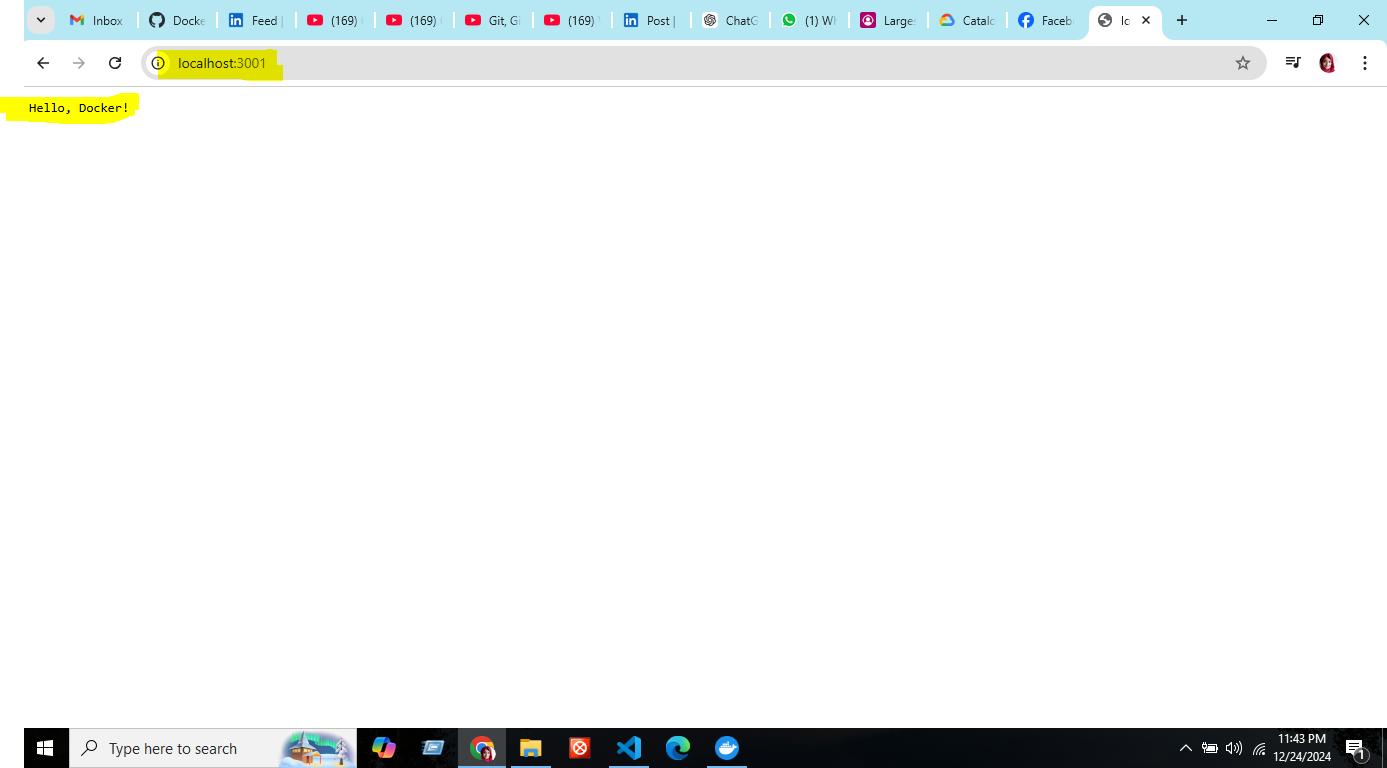
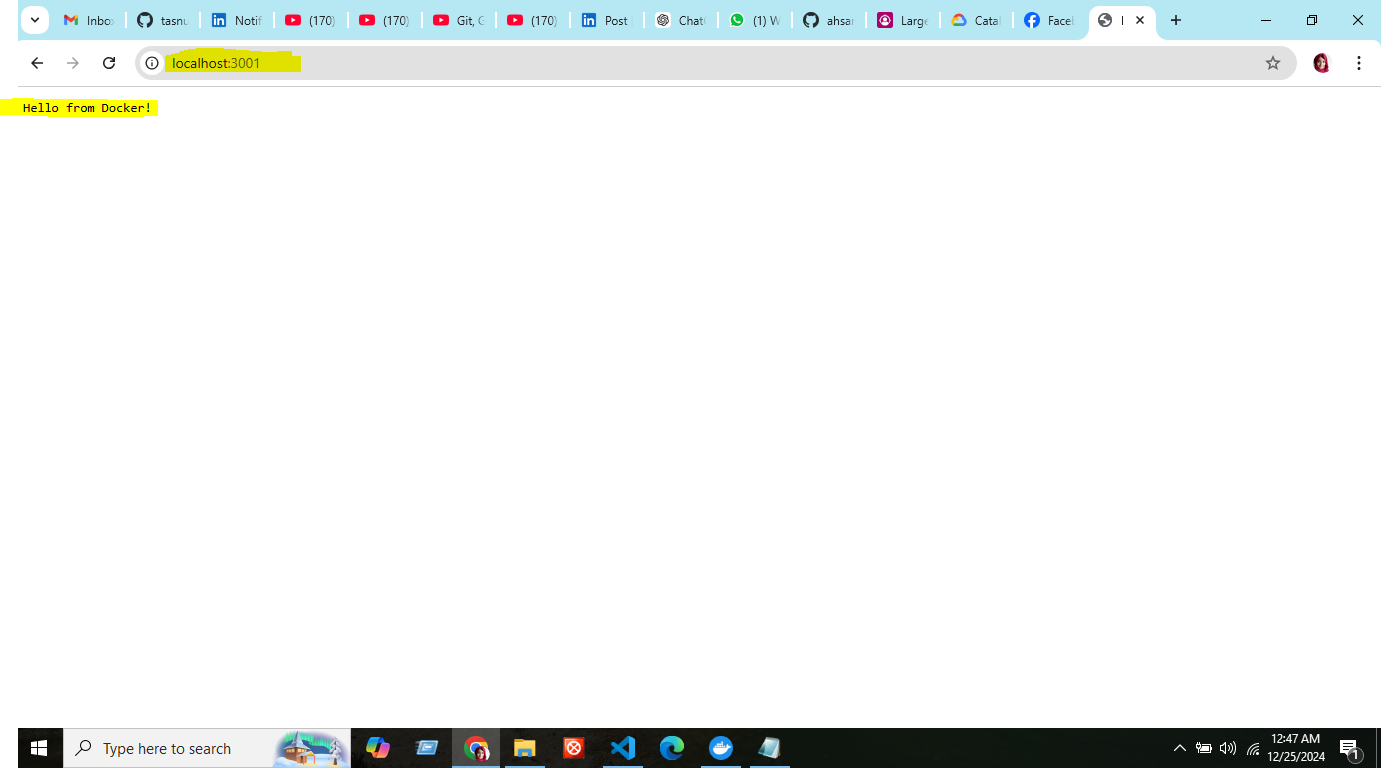
first commit

diff --git a/app.js b/app.js
@@ -5,7 +5,7 @@ const PORT = process.env.PORT || 3000;
 const server = http.createServer((req, res) => {
   res.statusCode = 200;
   res.setHeader('Content-Type', 'text/plain');
-  res.end('Hello, Docker!\n');
+  res.end('Hello from Docker!\n');
 });
 
 server.listen(PORT, () => {
